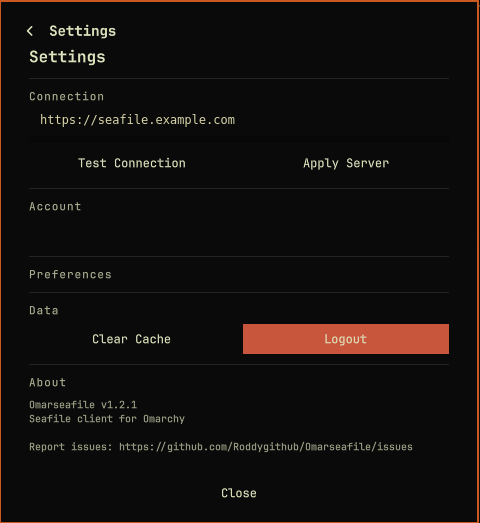
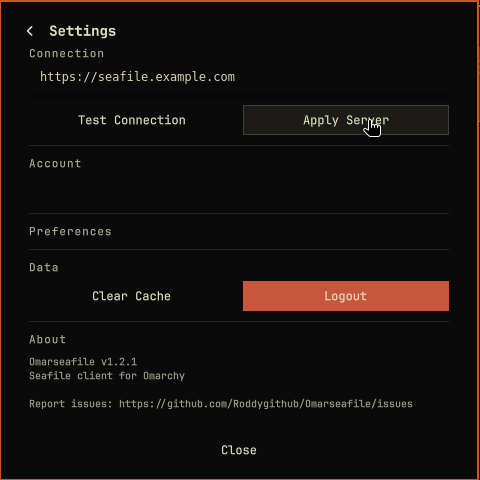
release: remove duplicate view headings

diff --git a/components/TransferManager.qml b/components/TransferManager.qml
@@ -50,36 +50,6 @@ Column {
         function onTransfersChanged() { root.refresh() }
     }
 
-    // Header with summary
-    Item {
-        width: parent.width
-        height: Style.space(32)
-        visible: root.activeCount > 0 || root.completedCount > 0 || root.failedCount > 0
-
-        Row {
-            spacing: Style.space(8)
-
-            Text {
-                text: "Transfers"
-                color: root.bar.foreground
-                font.family: root.bar.fontFamily
-                font.pixelSize: Style.font.caption
-                font.bold: true
-                height: parent.height
-                verticalAlignment: Text.AlignVCenter
-            }
-
-            Text {
-                text: "(" + (root.activeCount + root.completedCount + root.failedCount) + ")"
-                color: Qt.darker(root.bar.foreground, 1.4)
-                font.family: root.bar.fontFamily
-                font.pixelSize: Style.font.caption
-                height: parent.height
-                verticalAlignment: Text.AlignVCenter
-            }
-        }
-    }
-
     // Active section
     Column {
         width: parent.width

diff --git a/components/SettingsDialog.qml b/components/SettingsDialog.qml
@@ -35,7 +35,7 @@ Item {
 
     property string serverUrl: ""
     property string accountEmail: ""
-    property string pluginVersion: "1.2.1"
+    property string pluginVersion: "1.2.2"
     property bool autoLogin: true
     property bool singleClickOpen: false
     property string sortColumn: "name"
@@ -53,21 +53,6 @@ Item {
         // root is a plain Item (not a positioner), so anchoring the top-level
         // column is valid and preserves the intended horizontal centring.
         anchors.horizontalCenter: parent.horizontalCenter
-
-        Text {
-            text: "Settings"
-            color: root.bar.foreground
-            font.family: root.bar.fontFamily
-            font.pixelSize: Style.font.heading
-            font.bold: true
-        }
-
-        Rectangle {
-            width: parent.width
-            height: Style.spacing.hairline
-            color: root.bar.foreground
-            opacity: 0.12
-        }
 
         // Connection Section
         Column {

diff --git a/Panel.qml b/Panel.qml
@@ -114,7 +114,7 @@ Panel {
 
     // Single source of truth for the displayed version, kept in step with
     // manifest.json by scripts/test_v11_remediation.py.
-    readonly property string pluginVersion: "1.2.1"
+    readonly property string pluginVersion: "1.2.2"
 
     function selectionKeyForItem(item) {
         return SelectionHelper.makeKey(item)

diff --git a/scripts/test_v11_remediation.py b/scripts/test_v11_remediation.py
@@ -1000,15 +1000,15 @@ print("\n--- 10. Release metadata consistency (STATIC) ---")
 # =====================================================================
 import json
 manifest = json.loads(read("manifest.json"))
-test("manifest version is 1.2.1", manifest.get("version") == "1.2.1", manifest.get("version"),
+test("manifest version is 1.2.2", manifest.get("version") == "1.2.2", manifest.get("version"),
      kind="STATIC")
 test("Settings About derives from the same version",
-      'readonly property string pluginVersion: "1.2.1"' in panel
+      'readonly property string pluginVersion: "1.2.2"' in panel
      and "pluginVersion: root.pluginVersion" in panel, kind="STATIC")
 test("foldersFirst is declared in the manifest schema",
      any(f.get("key") == "foldersFirst" for f in manifest["barWidget"]["schema"]), kind="STATIC")
 changelog = read("CHANGELOG.md")
-test("CHANGELOG has a 1.2.1 section", "[1.2.1]" in changelog, kind="STATIC")
+test("CHANGELOG has a 1.2.2 section", "[1.2.2]" in changelog, kind="STATIC")
 test("update checker uses the GitHub latest release endpoint",
      "api.github.com/repos/Roddygithub/Omarseafile/releases/latest" in panel
      and "function checkForUpdate()" in panel, kind="STATIC")
@@ -1019,6 +1019,12 @@ toolbar = read("components/ToolBar.qml")
 test("overflow menu has a host-overlay fallback",
      "var target = root.overlay || root" in toolbar
      and "overflowButton.mapToItem(target" in toolbar, kind="STATIC")
+settings_dialog = read("components/SettingsDialog.qml")
+transfer_manager = read("components/TransferManager.qml")
+test("Settings uses the toolbar title only",
+     'text: "Settings"' not in settings_dialog, kind="STATIC")
+test("Transfers uses the toolbar title only",
+     'text: "Transfers"' not in transfer_manager, kind="STATIC")
 readme = read("README.md")
 test("README documents the zenity picker", "zenity" in readme.lower(), kind="STATIC")
 test("README no longer claims Qt FileDialog",

diff --git a/CHANGELOG.md b/CHANGELOG.md
@@ -5,6 +5,12 @@ All notable changes to this project will be documented in this file.
 The format is based on [Keep a Changelog](https://keepachangelog.com/en/1.0.0/),
 and this project adheres to [Semantic Versioning](https://semver.org/).
 
+## [1.2.2] - 2026-10-16
+
+### Fixed
+- Removed duplicate Settings and Transfers headings when the panel toolbar already provides the view title.
+- Restored overflow-menu positioning when the host overlay is temporarily unavailable.
+
 ## [1.2.1] - 2026-10-16
 
 ### Added

diff --git a/README.md b/README.md
@@ -20,7 +20,7 @@ Omarseafile is an [Omarchy](https://omarchy.org) bar-widget plugin for browsing 
 
 > **Install:** `omarchy plugin add https://github.com/Roddygithub/Omarseafile.git --enable`
 
-## Features (v1.2.1)
+## Features (v1.2.2)
 
 - **Home / Quick Access**: Pin libraries and folders for instant access. See active transfers at a glance.
 - Browse accessible Seafile libraries and folders with breadcrumbs.

diff --git a/docs/ROADMAP.md b/docs/ROADMAP.md
@@ -2,7 +2,7 @@
 
 ## Current State
 
-The current release is `1.2.1`. The v1 scope is delivered; the items below are future work unless explicitly scheduled.
+The current release is `1.2.2`. The v1 scope is delivered; the items below are future work unless explicitly scheduled.
 
 ## v1 Scope
 
